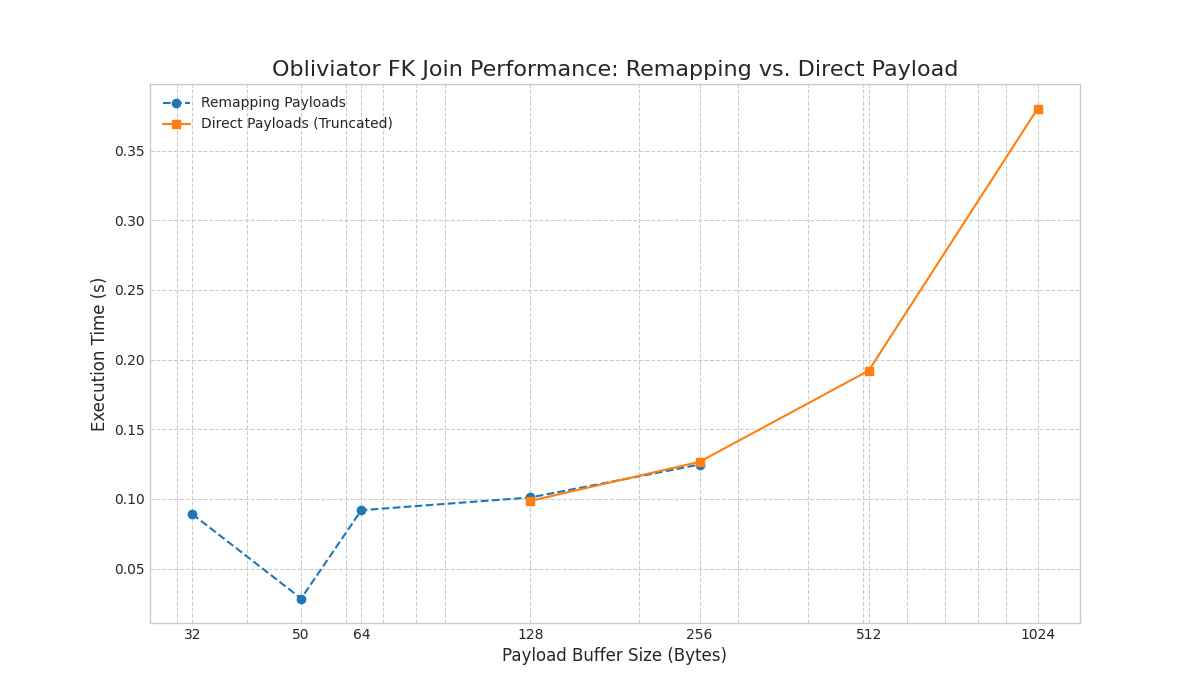
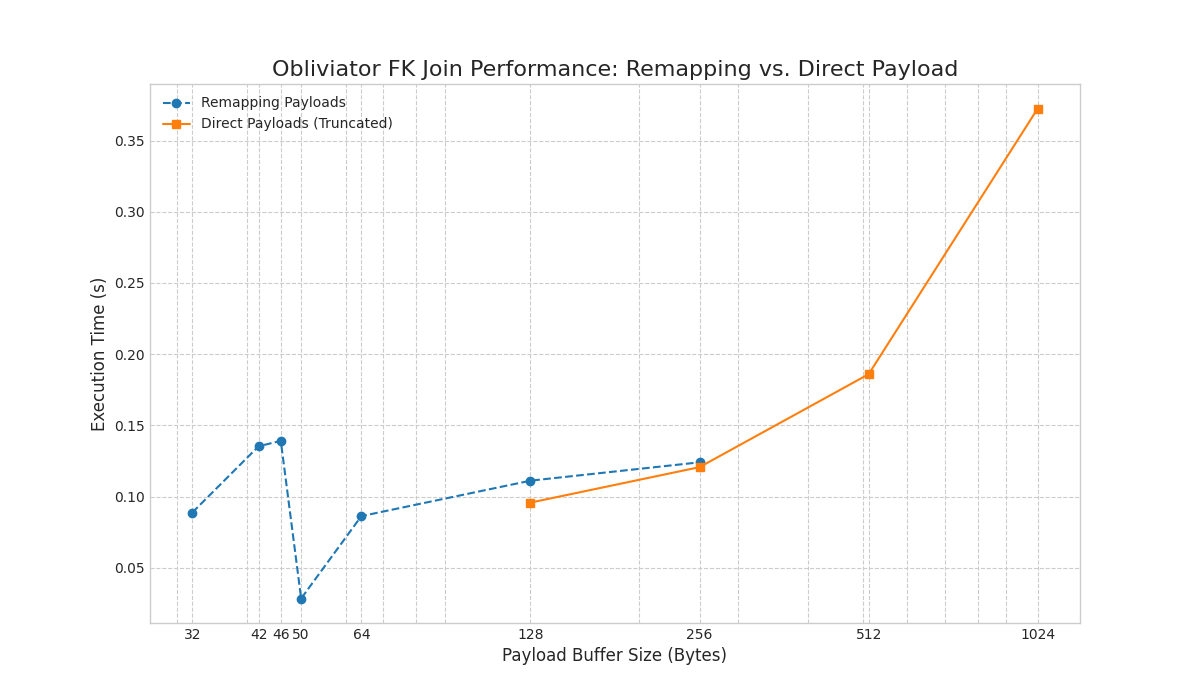
Updated figures

diff --git a/test_payload_filter.py b/test_payload_filter.py
@@ -10,10 +10,10 @@ import time
 # --- Configuration ---
 # IMPORTANT: Adjust this path to match your filter operator's location.
 C_HEADER_PATH = Path(os.path.expanduser("~/obliviator/operator_1/common/elem_t.h"))
-OPERATOR_SCRIPT = "operator1.py" # Assumes a version of operator1.py that bypasses relabeling
+OPERATOR_SCRIPT = "operator1.py"
 
 # --- Test Parameters ---
-PAYLOAD_SIZES = [32, 50, 64, 128, 256, 512, 1024]
+PAYLOAD_SIZES = [32, 42, 46, 50, 64, 128, 256, 512, 1024]
 TEST_MESSAGE_ID = "2336463350747" # The ID we know works
 
 def set_data_length(size: int):
@@ -46,7 +46,7 @@ def run_test():
         "--payload_cols", "content", "creationDate",
         "--filter_threshold_op1", TEST_MESSAGE_ID,
         "--filter_condition_op1", "==",
-	"--no_map"
+        "--no_map"
     ]
     try:
         print("Running test with direct payloads...")

diff --git a/test_payload_fkjoin.py b/test_payload_fkjoin.py
@@ -14,7 +14,7 @@ TABLE1_PATH = "Big_LDBC/Person.csv"
 TABLE2_PATH = "Big_LDBC/Post.csv"
 
 # --- Test Parameters ---
-PAYLOAD_SIZES_REMAPPED = [32, 50, 64, 128, 256]
+PAYLOAD_SIZES_REMAPPED = [32, 42, 46, 50, 64, 128, 256]
 PAYLOAD_SIZES_DIRECT = [1024, 512, 256, 128]
 
 def set_data_length(size: int):
